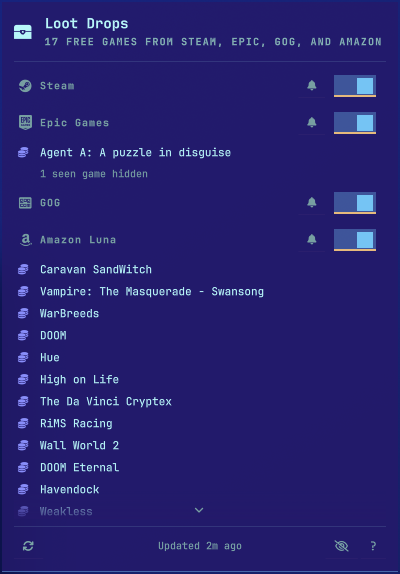
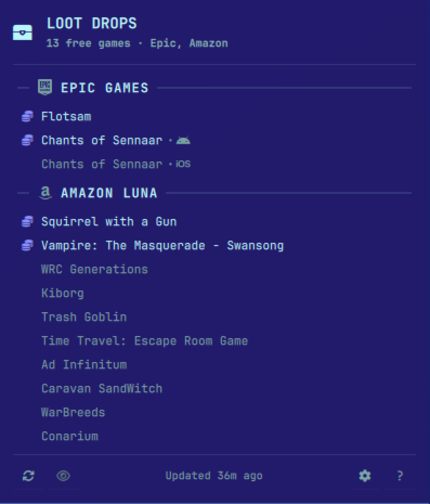
Refresh the preview and theme screenshots for 0.4.5
Feature Piedmont Gold, show Epic's Android and iOS rows, and swap Catppuccin Latte for Sunlit Sands in the theme grid. Captured from the 0.4.5 panel on Omarchy 4.5.0-3.

diff --git a/README.md b/README.md
@@ -16,14 +16,14 @@ pages, and it never writes anything outside its own state directory.
 claims page needs no account, but claiming its games needs an Amazon Prime
 membership and is done in your own browser. Loot Drops never signs in.
 
-<p align="center"><img alt="Loot Drops panel in the Sunlit Sands theme, listing 17 free games across Steam, Epic Games, GOG and Amazon Luna, with one seen game hidden and a fade at the bottom edge" src="preview.png" width="410"></p>
+<p align="center"><img alt="Loot Drops panel in the Piedmont Gold theme, listing 13 free games from Epic Games and Amazon Luna, including an Android and an iOS Epic giveaway" src="preview.png" width="410"></p>
 
-**Preview:** Sunlit Sands. A real screenshot from Omarchy 4.0.6-1 on Hyprland,
-taken from the live desktop with the panel open. Amazon Luna is switched on, one
-Epic game is marked seen and hidden behind the eye, and the list is long enough
-to show the fade at its bottom edge. The stores and games in it were real at
-capture time, so it will not match what the panel shows later. Desktop
-acceptance evidence is in [docs/ACCEPTANCE.json](docs/ACCEPTANCE.json).
+**Preview:** Piedmont Gold. A real screenshot from Omarchy 4.5.0-3 on Hyprland,
+taken from the live desktop with the panel open. Amazon Luna and Epic's Android
+and iOS feeds are switched on, so the list carries both platform glyphs. The
+stores and games in it were real at capture time, so it will not match what the
+panel shows later. Desktop acceptance evidence is in
+[docs/ACCEPTANCE.json](docs/ACCEPTANCE.json).
 
 ## Install
 
@@ -169,7 +169,7 @@ them:
 </tr>
 <tr>
 <td align="center"><img alt="Loot Drops panel in the Outpost theme" src="docs/themes/outpost.png" width="320"><br><sub>Outpost</sub></td>
-<td align="center"><img alt="Loot Drops panel in the Catppuccin Latte theme" src="docs/themes/catppuccin-latte.png" width="320"><br><sub>Catppuccin Latte</sub></td>
+<td align="center"><img alt="Loot Drops panel in the Sunlit Sands theme" src="docs/themes/sunlit-sands.png" width="320"><br><sub>Sunlit Sands</sub></td>
 </tr>
 </table>
 
